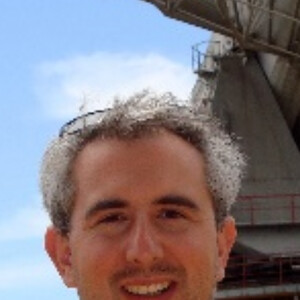
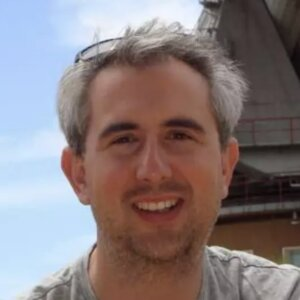
Test of Time: show author photos once (with the bios); new photo of Michael Cahill

diff --git a/src/content/pages/sigmod-awards/citations/2013-sigmod-test-of-time-award/index.md b/src/content/pages/sigmod-awards/citations/2013-sigmod-test-of-time-award/index.md
@@ -15,13 +15,6 @@ updated: "2026-11-13"
 
 <p class="paper-authors">Samuel Madden, Michael J. Franklin, Joseph M. Hellerstein, Wei Hong</p>
 
-<div class="award-team authors">
-<figure><img src="/assets/people/tot/2013-samuel-madden.jpg" alt="Samuel Madden" loading="lazy"><figcaption>Samuel Madden</figcaption></figure>
-<figure><img src="/assets/people/tot/2013-michael-j-franklin.jpg" alt="Michael J. Franklin" loading="lazy"><figcaption>Michael J. Franklin</figcaption></figure>
-<figure><img src="/assets/people/tot/2013-joseph-m-hellerstein.jpg" alt="Joseph M. Hellerstein" loading="lazy"><figcaption>Joseph M. Hellerstein</figcaption></figure>
-<figure><img src="/assets/people/tot/2013-wei-hong.jpg" alt="Wei Hong" loading="lazy"><figcaption>Wei Hong</figcaption></figure>
-</div>
-
 > *This paper from the SIGMOD 2003 Conference presents a novel technique for acquisitional query processing (ACQP) in wireless sensor networks (WSNs), and its design and implementation in the TinyDB system. TinyDB runs on top of TinyOS, which has been developed by the University of California, Berkeley and now is one of the most popular embedded operating systems for WSNs. ACQP was a pioneering framework, which first addressed the issue of “When should samples for a particular query be taken?” and it has other significant features for data collection in WSNs such as low power consumption and low computational overhead, as evidenced by the huge number of citations and downloads. This paper has been highly influential in subsequent research on data collection and query processing frameworks in WSNs. Moreover, through its wide availability as TinyOS components (which are easily installed onto motes), it has been embedded in various commercial products and real sensor systems. In summary, this paper has had strong impact on both academic research and industry.*
 
 **Original abstract:** We discuss the design of an acquisitional query processor for data collection in sensor networks. Acquisitional issues are those that pertain to where, when, and how often data is physically acquired (sampled) and delivered to query processing operators. By focusing on the locations and costs of acquiring data, we are able to significantly reduce power consumption over traditional passive systems that assume the a priori existence of data. We discuss simple extensions to SQL for controlling data acquisition, and show how acquisitional issues influence query optimization, dissemination, and execution. We evaluate these issues in the context of TinyDB, a distributed query processor for smart sensor devices, and show how acquisitional techniques can provide significant reductions in power consumption on our sensor devices.

diff --git a/src/content/pages/sigmod-awards/citations/2012-sigmod-test-of-time-award/index.md b/src/content/pages/sigmod-awards/citations/2012-sigmod-test-of-time-award/index.md
@@ -15,13 +15,6 @@ updated: "2026-11-13"
 
 <p class="paper-authors">Hakan Hacigumus, Bala Iyer, Chen Li, Sharad Mehrotra</p>
 
-<div class="award-team authors">
-<figure><img src="/assets/people/tot/2012-hakan-hacigumus.jpg" alt="Hakan Hacigumus" loading="lazy"><figcaption>Hakan Hacigumus</figcaption></figure>
-<figure><img src="/assets/people/tot/2012-balakrishna-bala-iyer.jpg" alt="Balakrishna (Bala) Iyer" loading="lazy"><figcaption>Balakrishna (Bala) Iyer</figcaption></figure>
-<figure><img src="/assets/people/tot/2012-chen-li.jpg" alt="Chen Li" loading="lazy"><figcaption>Chen Li</figcaption></figure>
-<figure><img src="/assets/people/tot/2012-sharad-mehrotra.jpg" alt="Sharad Mehrotra" loading="lazy"><figcaption>Sharad Mehrotra</figcaption></figure>
-</div>
-
 > *This paper from the SIGMOD 2002 Conference remarkably anticipated the world of “Database as Service” which did come about and continues to grow in importance. To get a sense of how visionary the work was, consider that this paper was published in June 2002 (and thus accepted in Jan 2002), even a couple of months before Amazon EC2 and S3 services were launched (of course, Amazon RDS and SQL Azure came much later). The core of the paper focuses on the challenges of how to leverage cloud services while keeping some of the information (at the discretion of the enterprise/user) hidden from the service provider. Beyond the specific algorithmic details, the key contribution is the framework: (i) introduction of a mapping function, and (ii) query splitting logic to ensure how the work can be distributed across cloud and client when some information is encrypted. Is this framework used by enterprises today? As best as we can tell, the answer is perhaps no. But, is the framework interesting and has real possibilities of adoption and further impact and more follow-on by research community? Absolutely. In summary, this paper is one of the early papers to foresee the world of Database as Service (before any one of us were working on that problem). The specific technical focus was dealt with reasonable depth. The impact of the technical focus has not yet been seen by the industry but this paper has the possibility of inspiring much more follow-on work/thinking (beyond 140+ citations it already has in ACM Digital Library).*
 
 ## About the authors

diff --git a/src/content/pages/sigmod-awards/citations/2017-sigmod-test-of-time-award/index.md b/src/content/pages/sigmod-awards/citations/2017-sigmod-test-of-time-award/index.md
@@ -15,13 +15,6 @@ updated: "2026-11-13"
 
 <p class="paper-authors">Magdalena Balazinska, Hari Balakrishnan, Samuel Madden, Michael Stonebraker</p>
 
-<div class="award-team authors">
-<figure><img src="/assets/people/tot/2017-magdalena-balazinska.jpg" alt="Magdalena Balazinska" loading="lazy"><figcaption>Magdalena Balazinska</figcaption></figure>
-<figure><img src="/assets/people/tot/2017-hari-balakrishnan.jpg" alt="Hari Balakrishnan" loading="lazy"><figcaption>Hari Balakrishnan</figcaption></figure>
-<figure><img src="/assets/people/tot/2017-samuel-madden.jpg" alt="Samuel Madden" loading="lazy"><figcaption>Samuel Madden</figcaption></figure>
-<figure><img src="/assets/people/tot/2017-michael-stonebraker.jpg" alt="Michael Stonebraker" loading="lazy"><figcaption>Michael Stonebraker</figcaption></figure>
-</div>
-
 **Original Abstract:** We present a replication-based approach to fault-tolerant distributed stream processing in the face of node failures, network failures, and network partitions. Our approach aims to reduce the degree of inconsistency in the system while guaranteeing that available inputs capable of being processed are processed within a specified time threshold. This threshold allows a user to trade availability for consistency: a larger time threshold decreases availability but limits inconsistency, while a smaller threshold increases availability but produces more inconsistent results based on partial data. In addition, when failures heal, our scheme corrects previously produced results, ensuring eventual consistency.Our scheme uses a data-serializing operator to ensure that all replicas process data in the same order, and thus remain consistent in the absence of failures. To regain consistency after a failure heals, we experimentally compare approaches based on checkpoint/redo and undo/redo techniques and illustrate the performance trade-offs between these schemes.
 
 ## About the authors

diff --git a/src/content/pages/sigmod-awards/citations/2014-sigmod-test-of-time-award/index.md b/src/content/pages/sigmod-awards/citations/2014-sigmod-test-of-time-award/index.md
@@ -15,13 +15,6 @@ updated: "2026-11-13"
 
 <p class="paper-authors">Rakesh Agrawal, Jerry Kiernan, Ramakrishnan Srikant, and Yirong Xu</p>
 
-<div class="award-team authors">
-<figure><img src="/assets/people/tot/2014-rakesh-agrawal.jpg" alt="Rakesh Agrawal" loading="lazy"><figcaption>Rakesh Agrawal</figcaption></figure>
-<figure><img src="/assets/people/tot/2014-jerry-kiernan.jpg" alt="Jerry Kiernan" loading="lazy"><figcaption>Jerry Kiernan</figcaption></figure>
-<figure><img src="/assets/people/tot/2014-ramakrishnan-srikant.jpg" alt="Ramakrishnan Srikant" loading="lazy"><figcaption>Ramakrishnan Srikant</figcaption></figure>
-<figure><img src="/assets/people/tot/2014-yirong-xu.jpg" alt="Yirong Xu" loading="lazy"><figcaption>Yirong Xu</figcaption></figure>
-</div>
-
 **Original Abstract:** Encryption is a well established technology for protecting sensitive data. However, once encrypted, data can no longer be easily queried aside from exact matches. We present an order-preserving encryption scheme for numeric data that allows any comparison operation to be directly applied on encrypted data. Query results produced are sound (no false hits) and complete (no false drops). Our scheme handles updates gracefully and new values can be added without requiring changes in the encryption of other values. It allows standard database indexes to be built over encrypted tables and can easily be integrated with existing database systems. The proposed scheme has been designed to be deployed in application environments in which the intruder can get access to the encrypted database, but does not have prior domain information such as the distribution of values and cannot encrypt or decrypt arbitrary values of his choice. The encryption is robust against estimation of the true value in such environments.
 
 ## About the authors

diff --git a/src/content/pages/sigmod-2022-test-of-time-award/index.md b/src/content/pages/sigmod-2022-test-of-time-award/index.md
@@ -14,14 +14,6 @@ updated: "2026-11-13"
 
 <p class="paper-authors">Ioannis Alagiannis, Renata Borovica-Gajic, Miguel Branco, Stratos Idreos, Anastasia Ailamaki</p>
 
-<div class="award-team authors">
-<figure><img src="/assets/people/tot/2022-ioannis-alagiannis.jpg" alt="Ioannis Alagiannis" loading="lazy"><figcaption>Ioannis Alagiannis</figcaption></figure>
-<figure><img src="/assets/people/tot/2022-renata-borovica-gajic.jpg" alt="Renata Borovica-Gajic" loading="lazy"><figcaption>Renata Borovica-Gajic</figcaption></figure>
-<figure><img src="/assets/people/tot/2022-miguel-branco.jpg" alt="Miguel Branco" loading="lazy"><figcaption>Miguel Branco</figcaption></figure>
-<figure><img src="/assets/people/stratos-idreos.jpg" alt="Stratos Idreos" loading="lazy"><figcaption>Stratos Idreos</figcaption></figure>
-<figure><img src="/assets/people/tot/2022-anastasia-ailamaki.jpg" alt="Anastasia Ailamaki" loading="lazy"><figcaption>Anastasia Ailamaki</figcaption></figure>
-</div>
-
 > *NoDB introduces a radical departure from the standard paradigm of ingest-then-process data analytics: a new paradigm that does not require data loading while still maintaining the whole feature set of a modern database system. This is accomplished by making raw data files a first-class citizen, fully integrated with the query engine. NoDB introduces the concept of positional maps to efficiently execute queries on raw, never-before-seen data collections along with ingested and processed datasets. The result is a structure later known as “virtual data lake”: a cache which records frequently-used data and operations and accelerates execution through learning from previous queries. NoDB’s data virtualization and just-in-time query processing algorithms are implemented at the heart of several data lake platforms.*
 
 ## About the authors

diff --git a/src/content/pages/sigmod-awards/citations/2018-sigmod-test-of-time-award/index.md b/src/content/pages/sigmod-awards/citations/2018-sigmod-test-of-time-award/index.md
@@ -15,12 +15,6 @@ updated: "2026-11-13"
 
 <p class="paper-authors">Michael Cahill, Uwe Röhm, Alan Fekete</p>
 
-<div class="award-team authors">
-<figure><img src="/assets/people/tot/2018-michael-cahill.jpg" alt="Michael Cahill" loading="lazy"><figcaption>Michael Cahill</figcaption></figure>
-<figure><img src="/assets/people/tot/2018-uwe-r-hm.jpg" alt="Uwe Röhm" loading="lazy"><figcaption>Uwe Röhm</figcaption></figure>
-<figure><img src="/assets/people/tot/2018-alan-fekete.jpg" alt="Alan Fekete" loading="lazy"><figcaption>Alan Fekete</figcaption></figure>
-</div>
-
 **Abstract:** Many popular database management systems implement a multiversion concurrency control algorithm called snapshot isolation rather than providing full serializability based on locking. There are well-known anomalies permitted by snapshot isolation that can lead to violations of data consistency by interleaving transactions that would maintain consistency if run serially. Until now, the only way to prevent these anomalies was to modify the applications by introducing explicit locking or artificial update conflicts, following careful analysis of conflicts between all pairs of transactions.This article describes a modification to the concurrency control algorithm of a database management system that automatically detects and prevents snapshot isolation anomalies at runtime for arbitrary applications, thus providing serializable isolation. The new algorithm preserves the properties that make snapshot isolation attractive, including that readers do not block writers and vice versa. An implementation of the algorithm in a relational DBMS is described, along with a benchmark and performance study, showing that the throughput approaches that of snapshot isolation in most cases.
 
 ## About the authors

diff --git a/src/content/pages/sigmod-awards/citations/2015-sigmod-test-of-time-award/index.md b/src/content/pages/sigmod-awards/citations/2015-sigmod-test-of-time-award/index.md
@@ -14,12 +14,6 @@ updated: "2026-11-13"
 
 <p class="paper-authors">Lei Chen, M. Tamer Özsu, Vincent Oria</p>
 
-<div class="award-team authors">
-<figure><img src="/assets/people/tot/2015-lei-chen.jpg" alt="Lei Chen" loading="lazy"><figcaption>Lei Chen</figcaption></figure>
-<figure><img src="/assets/people/tot/2015-m-tamer-zsu.jpg" alt="M. Tamer Özsu" loading="lazy"><figcaption>M. Tamer Özsu</figcaption></figure>
-<figure><img src="/assets/people/tot/2015-vincent-oria.jpg" alt="Vincent Oria" loading="lazy"><figcaption>Vincent Oria</figcaption></figure>
-</div>
-
 **Original Abstract:** An important consideration in similarity-based retrieval of moving object trajectories is the definition of a distance function. The existing distance functions are usually sensitive to noise, shifts and scaling of data that commonly occur due to sensor failures, errors in detection techniques, disturbance signals, and different sampling rates. Cleaning data to eliminate these is not always possible. In this paper, we introduce a novel distance function, Edit Distance on Real sequence (EDR) which is robust against these data imperfections. Analysis and comparison of EDR with other popular distance functions, such as Euclidean distance, Dynamic Time Warping (DTW), Edit distance with Real Penalty (ERP), and Longest Common Subsequences (LCSS), indicate that EDR is more robust than Euclidean distance, DTW and ERP, and it is on average 50% more accurate than LCSS. We also develop three pruning techniques to improve the retrieval efficiency of EDR and show that these techniques can be combined effectively in a search, increasing the pruning power significantly. The experimental results confirm the superior efficiency of the combined methods.
 
 ## About the authors

diff --git a/src/content/pages/sigmod-awards/citations/2016-sigmod-test-of-time-award/index.md b/src/content/pages/sigmod-awards/citations/2016-sigmod-test-of-time-award/index.md
@@ -15,12 +15,6 @@ updated: "2026-11-13"
 
 <p class="paper-authors">Peter Buneman, Adriane Chapman, James Cheney</p>
 
-<div class="award-team authors">
-<figure><img src="/assets/people/tot/2016-peter-buneman.jpg" alt="Peter Buneman" loading="lazy"><figcaption>Peter Buneman</figcaption></figure>
-<figure><img src="/assets/people/tot/2016-adriane-chapman.jpg" alt="Adriane Chapman" loading="lazy"><figcaption>Adriane Chapman</figcaption></figure>
-<figure><img src="/assets/people/tot/2016-james-cheney.jpg" alt="James Cheney" loading="lazy"><figcaption>James Cheney</figcaption></figure>
-</div>
-
 **Original Abstract:** Curated databases in bioinformatics and other disciplines are the result of a great deal of manual annotation, correction and transfer of data from other sources. Provenance information concerning the creation, attribution, or version history of such data is crucial for assessing its integrity and scientific value. General purpose database systems provide little support for tracking provenance, especially when data moves among databases. This paper investigates general-purpose techniques for recording provenance for data that is copied among databases. We describe an approach in which we track the user’s actions while browsing source databases and copying data into a curated database, in order to record the user’s actions in a convenient, queryable form. We present an implementation of this technique and use it to evaluate the feasibility of database support for provenance management. Our experiments show that although the overhead of a naive approach is fairly high, it can be decreased to an acceptable level using simple optimizations.
 
 ## About the authors

diff --git a/src/content/pages/sigmod-awards/citations/2020-sigmod-test-of-time-award/index.md b/src/content/pages/sigmod-awards/citations/2020-sigmod-test-of-time-award/index.md
@@ -15,16 +15,6 @@ updated: "2026-11-13"
 
 <p class="paper-authors">Grzegorz Malewicz, Matthew H. Austern, Aart J.C. Bik, James C. Dehnert, Ilan Horn, Naty Leiser, and Grzegorz Czajkowski</p>
 
-<div class="award-team authors">
-<figure><img src="/assets/people/tot/2020-greg-malewicz.jpg" alt="Greg Malewicz" loading="lazy"><figcaption>Greg Malewicz</figcaption></figure>
-<figure><img src="/assets/people/tot/2020-matthew-austern.jpg" alt="Matthew Austern" loading="lazy"><figcaption>Matthew Austern</figcaption></figure>
-<figure><img src="/assets/people/tot/2020-aart-j-c-bik.jpg" alt="Aart J.C. Bik" loading="lazy"><figcaption>Aart J.C. Bik</figcaption></figure>
-<figure><img src="/assets/people/tot/2020-jim-dehnert.jpg" alt="Jim Dehnert" loading="lazy"><figcaption>Jim Dehnert</figcaption></figure>
-<figure><img src="/assets/people/tot/2020-ilan-horn.jpg" alt="Ilan Horn" loading="lazy"><figcaption>Ilan Horn</figcaption></figure>
-<figure><img src="/assets/people/tot/2020-naty-leiser.jpg" alt="Naty Leiser" loading="lazy"><figcaption>Naty Leiser</figcaption></figure>
-<figure><img src="/assets/people/tot/2020-grzegorz-czajkowski.jpg" alt="Grzegorz Czajkowski" loading="lazy"><figcaption>Grzegorz Czajkowski</figcaption></figure>
-</div>
-
 > *Pregel is one of the first systems for large-scale graph analytics. It introduced vertex-centric bulk-synchronous processing as programming and computation models for graph analytics. It has generated significant follow-on research that both optimized its computation model and developed alternatives. The paper now has more than 3700 citations on Google Scholar and has become standard reading in graph analytics.*
 
 ## About the authors

diff --git a/src/content/pages/sigmod-awards/citations/2019-sigmod-test-of-time-award/index.md b/src/content/pages/sigmod-awards/citations/2019-sigmod-test-of-time-award/index.md
@@ -15,10 +15,6 @@ updated: "2026-11-13"
 
 <p class="paper-authors">Frank McSherry</p>
 
-<div class="award-team authors">
-<figure><img src="/assets/people/tot/2019-frank-mcsherry.jpg" alt="Frank McSherry" loading="lazy"><figcaption>Frank McSherry</figcaption></figure>
-</div>
-
 **Abstract:** We report on the design and implementation of the Privacy Integrated Queries (PINQ) platform for privacy-preserving data analysis. PINQ provides analysts with a programming interface to unscrubbed data through a SQL-like language. At the same time, the design of PINQ’s analysis language and its careful implementation provide formal guarantees of differential privacy for any and all uses of the platform. PINQ’s unconditional structural guarantees require no trust placed in the expertise or diligence of the analysts, substantially broadening the scope for design and deployment of privacy-preserving data analysis, especially by non-experts.
 
 ## About the authors
